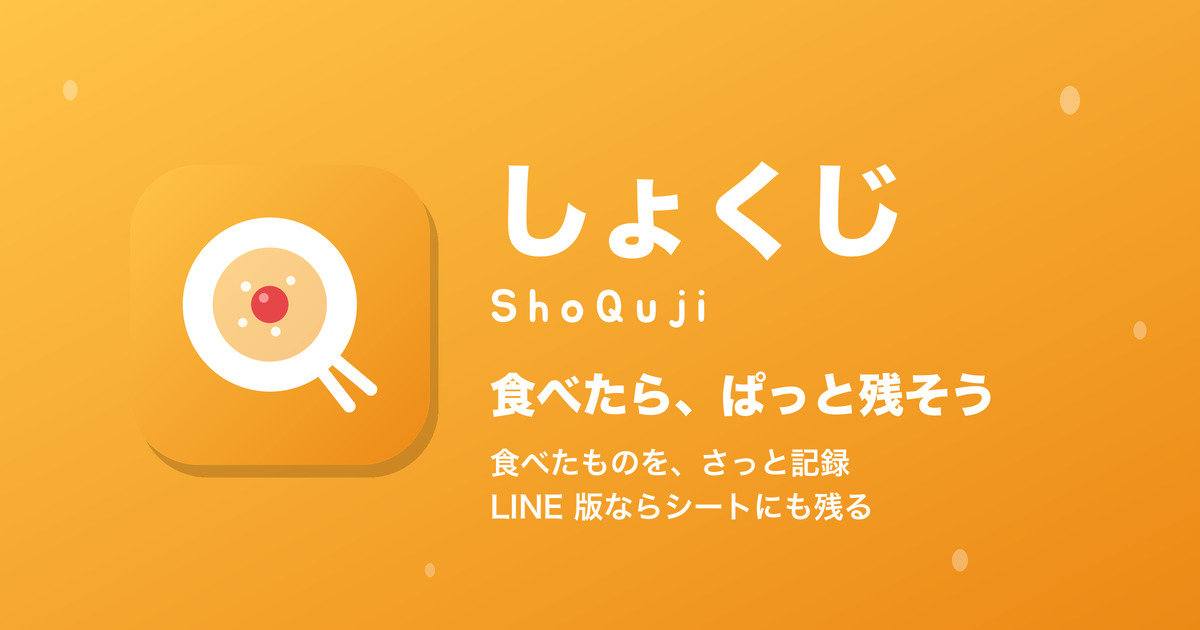
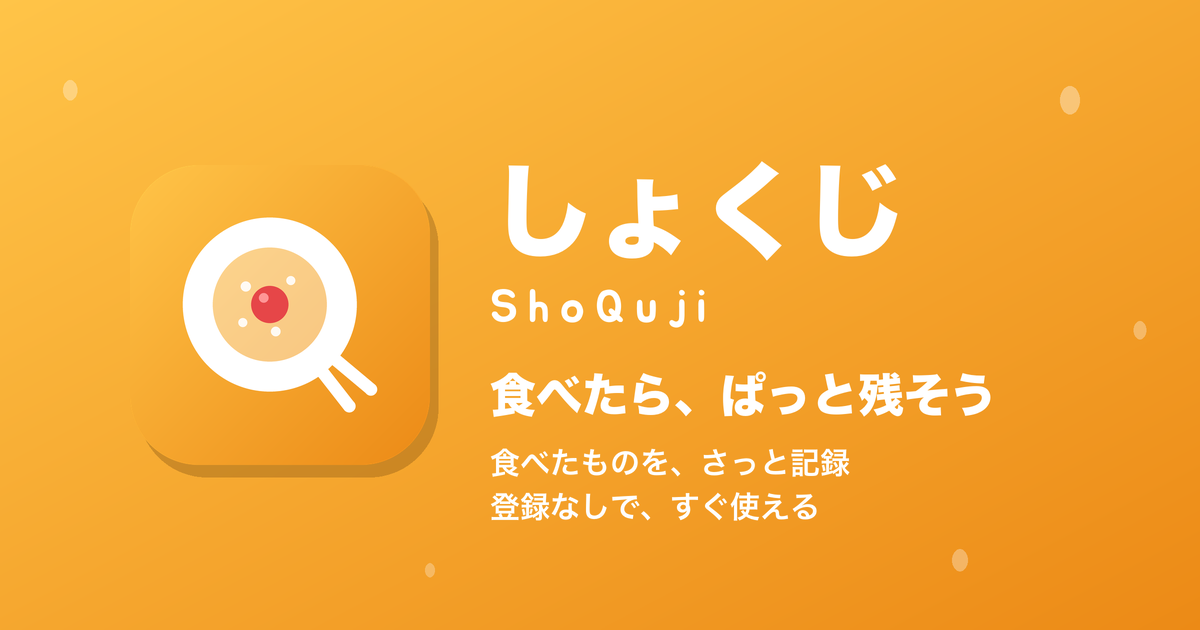
OGP から LINE と中の言葉を外す（ux.md G5）：画像の2行目を「登録なしで、すぐ使える」に（og:image ?v=7）、og:description・description・manifest の説明を「何ができるか・登録なし・カードで送れる」に。画面の中の LINE 版の案内はそのまま

Changed region(s): [[0.4008, 0.7841, 0.74, 0.8444]]

diff --git a/index.html b/index.html
@@ -4,13 +4,13 @@
 <meta charset="UTF-8">
 <meta name="viewport" content="width=device-width, initial-scale=1, viewport-fit=cover">
 <title>しょくじ｜食べたものを、さっと記録</title>
-<meta name="description" content="しょくじ（ShoQuji）。食べたものとカロリー・PFC をさっと記録して、1日の合計や1週間のふりかえりを見られます。ブラウザ版は記録がこの端末の中に、LINE 版は食事記録ボットのシートにも残ります。カードで送れます。">
+<meta name="description" content="しょくじ（ShoQuji）。食べたものとカロリー・PFC をさっと記録して、1日の合計や1週間のふりかえりを見られます。登録なしで、すぐ使えます。きょうのしょくじは、カードで送れます。">
 <meta property="og:type" content="website">
 <meta property="og:site_name" content="しょくじ（ShoQuji）">
 <meta property="og:title" content="しょくじ｜食べたものを、さっと記録">
-<meta property="og:description" content="食べたものをさっと記録。1日の合計・1週間のふりかえり。LINE 版なら食事記録ボットのシートにも残り、トークからも記録できます。">
+<meta property="og:description" content="食べたものをさっと記録。1日の合計・1週間のふりかえり。登録なしで、すぐ使えます。カードで送れます。">
 <meta property="og:url" content="https://katsuan.github.io/shoquji/">
-<meta property="og:image" content="https://katsuan.github.io/shoquji/ogp.png?v=6">
+<meta property="og:image" content="https://katsuan.github.io/shoquji/ogp.png?v=7">
 <meta property="og:image:width" content="1200">
 <meta property="og:image:height" content="630">
 <meta property="og:image:alt" content="しょくじ（ShoQuji）：食べたものを、さっと記録">

diff --git a/tools/icon.py b/tools/icon.py
@@ -104,7 +104,7 @@ def main():
     (ROOT / "logo.svg").write_text(teacup_logo(logo), encoding="utf-8")
     BRAND.write_ogp(
         ROOT / "ogp.png", SHAPES, "しょくじ", "ShoQuji",
-        ["食べたものを、さっと記録", "LINE 版ならシートにも残る"], decorate,
+        ["食べたものを、さっと記録", "登録なしで、すぐ使える"], decorate,
         copy="食べたら、ぱっと残そう",
     )
     print(f"アイコン・logo.svg（高さ 28px なら幅 {28 * ratio:.0f}px）・ogp.png を書き出しました")
